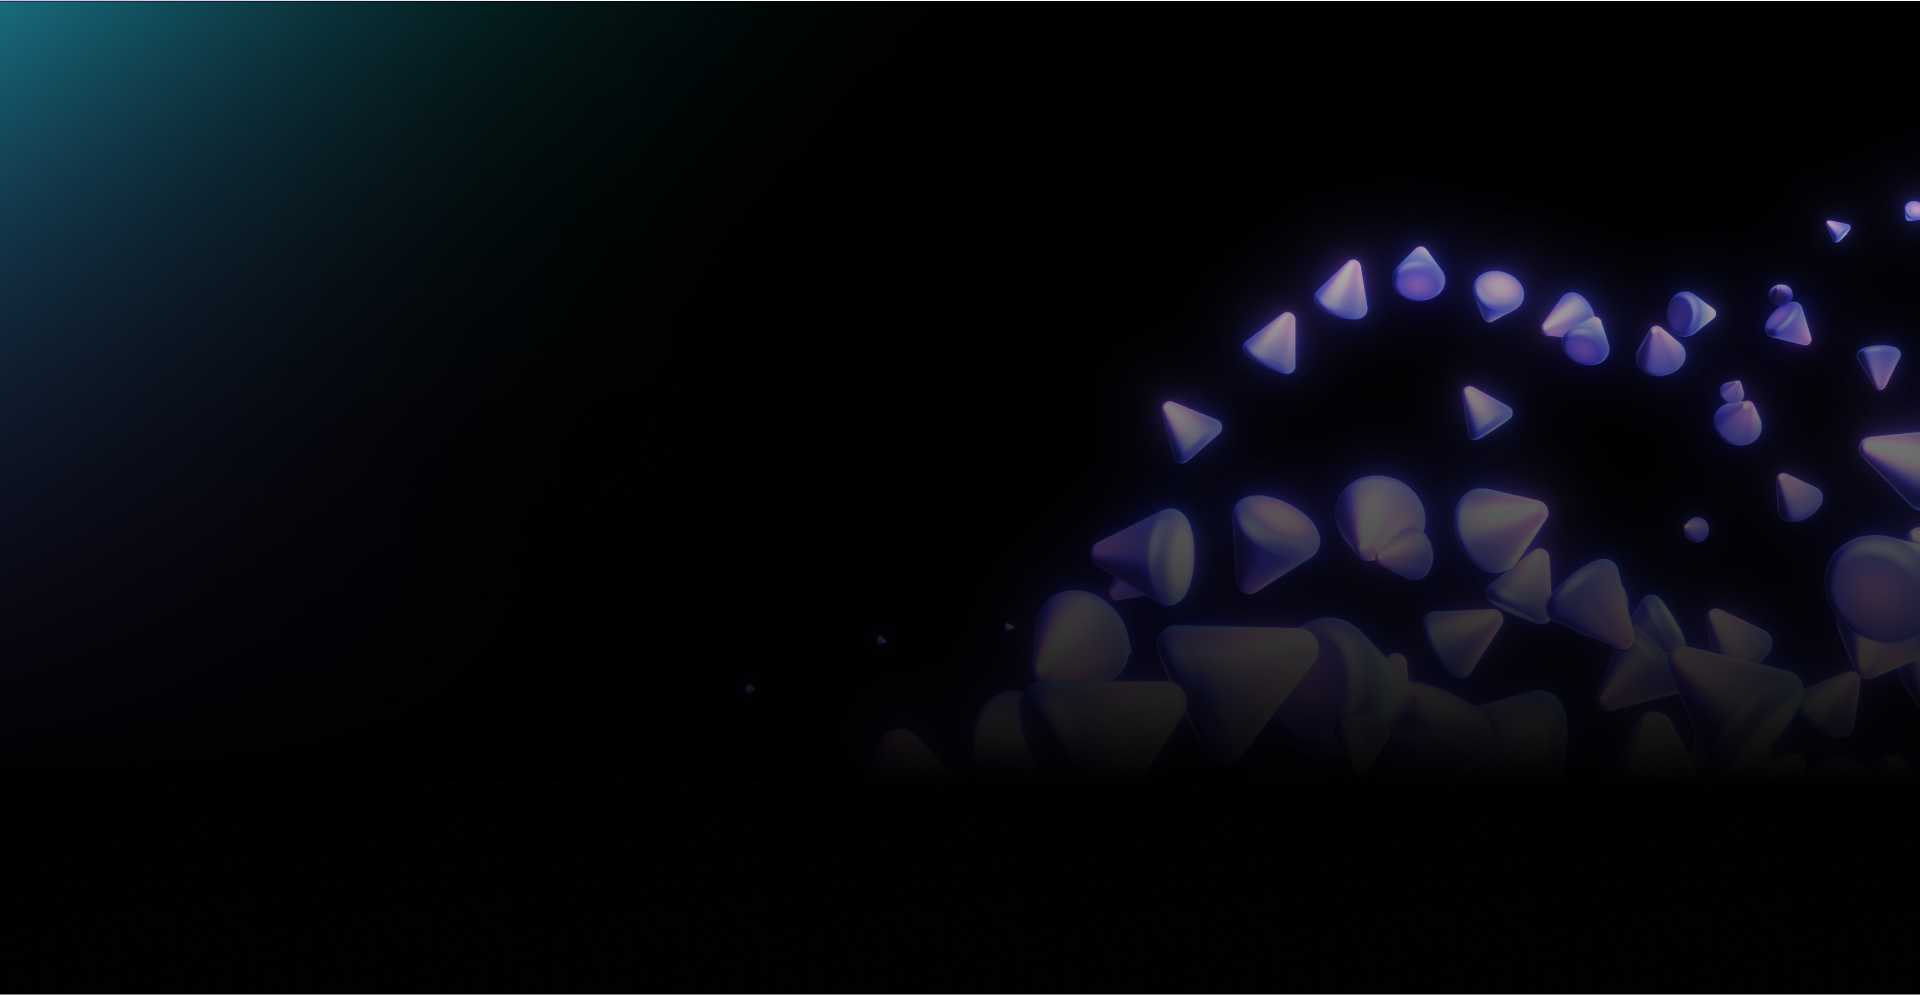
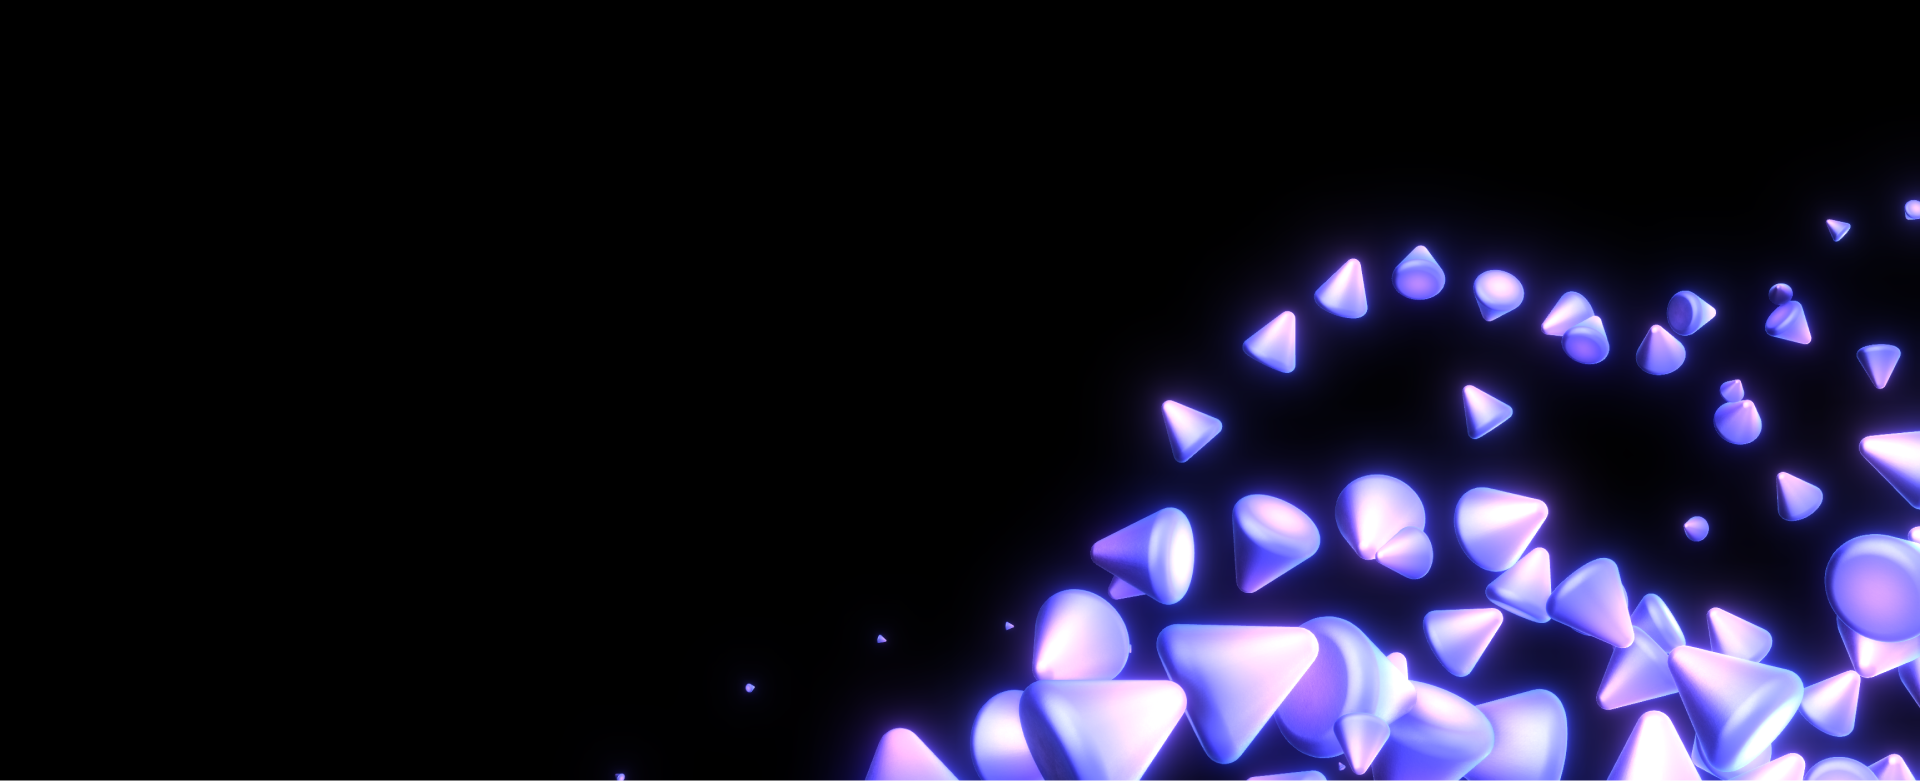
metrica

diff --git a/app.html b/app.html
@@ -1,0 +1,47 @@
+<!DOCTYPE html>
+<html {{ HTML_ATTRS }}>
+    <head {{ HEAD_ATTRS }}>
+        {{ HEAD }}
+        <!-- Yandex.Metrika counter -->
+        <script type="text/javascript">
+            (function (m, e, t, r, i, k, a) {
+                m[i] =
+                    m[i] ||
+                    function () {
+                        (m[i].a = m[i].a || []).push(arguments);
+                    };
+                m[i].l = 1 * new Date();
+                (k = e.createElement(t)),
+                    (a = e.getElementsByTagName(t)[0]),
+                    (k.async = 1),
+                    (k.src = r),
+                    a.parentNode.insertBefore(k, a);
+            })(
+                window,
+                document,
+                "script",
+                "https://mc.yandex.ru/metrika/tag.js",
+                "ym"
+            );
+
+            ym(87986768, "init", {
+                clickmap: true,
+                trackLinks: true,
+                accurateTrackBounce: true,
+                webvisor: true,
+            });
+        </script>
+        <noscript
+            ><div>
+                <img
+                    src="https://mc.yandex.ru/watch/87986768"
+                    style="position: absolute; left: -9999px"
+                    alt=""
+                /></div
+        ></noscript>
+        <!-- /Yandex.Metrika counter -->
+    </head>
+    <body {{ BODY_ATTRS }}>
+        {{ APP }}
+    </body>
+</html>

diff --git a/components/News/index.vue b/components/News/index.vue
@@ -26,6 +26,16 @@ export default {
 
 <style>
 #news {
-    background: url("/img/bg-news.png") no-repeat, #000 bottom;
+    background: #000;
+
+    @media (min-width: 768px) {
+        background: linear-gradient(
+                332deg,
+                rgba(0, 0, 0, 0) 63.57%,
+                #7f0dc6 120.18%
+            ),
+            linear-gradient(239deg, rgba(0, 0, 0, 0) 59.18%, #18d3d8 116.45%),
+            url("/img/bg-news.png") no-repeat right, #000 bottom;
+    }
 }
 </style>

diff --git a/components/Video/index.vue b/components/Video/index.vue
@@ -41,6 +41,16 @@ export default {};
 
 <style>
 #video {
-    background: url("/img/bg-video.png") no-repeat, #000 bottom;
+    background: #000;
+
+    @media (min-width: 768px) {
+        background: linear-gradient(
+                69deg,
+                rgba(0, 0, 0, 0) 63.57%,
+                #7f0dc6 120.18%
+            ),
+            linear-gradient(131deg, rgba(0, 0, 0, 0) 59.18%, #18d3d8 116.45%),
+            url("/img/bg-video.png") no-repeat, #000 right;
+    }
 }
 </style>

diff --git a/components/News/Footer.vue b/components/News/Footer.vue
@@ -1,5 +1,5 @@
 <template>
-    <div class="grid grid-cols-1 lg:grid-cols-5 mt-8 md:mt-32 gap-4">
+    <div class="grid grid-cols-1 lg:grid-cols-5 mt-8 md:mt-16 gap-4">
         <span class="flex justify-center items-center"
             >© 2019—2021 ООО «ВДООХ»</span
         >
